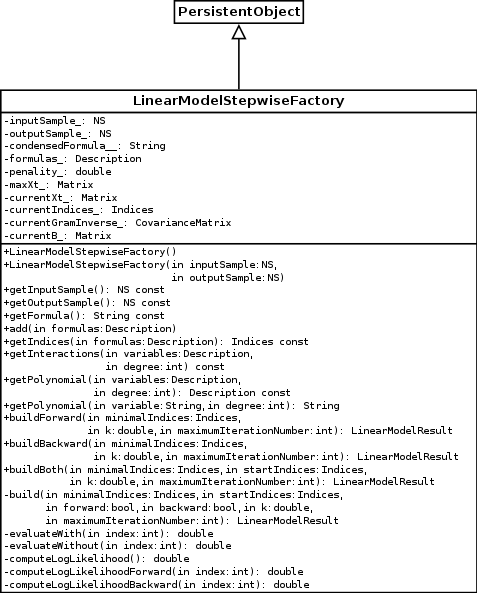
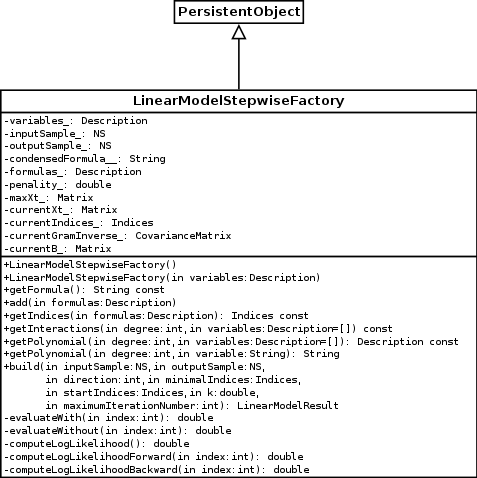
Describe API changes as discussed with Sofiane

Changed region(s): [[0.0, 0.1464, 1.0, 1.0], [0.3522, 0.0, 0.6457, 0.0879]]

diff --git a/EDF_linear_regression/STEPWISE_test/STEPWISE_test1.py b/EDF_linear_regression/STEPWISE_test/STEPWISE_test1.py
@@ -19,30 +19,30 @@ Y = myLinearModel(X) + R
 print(Y)
 
 # Build a model Y~(X1+X2+X3+X4)^3+I(Xi)^2+I(Xi)^3
-factory = ot.LinearModelStepwiseFactory(X, Y)
+factory = ot.LinearModelStepwiseFactory(X.getDescription())
 # (X1+X2+X3+X4)^3
-factory.add(factory.getInteractions(X.getDescription(), 3))
+factory.add(factory.getInteractions(3))
 
 # I(Xi)^2
-factory.add(factory.getPolynomial(X.getDescription(), 2))
+factory.add(factory.getPolynomial(2))
 
 # I(Xi)^3
-factory.add(factory.getPolynomial(X.getDescription(), 3))
+factory.add(factory.getPolynomial(3))
 
 i_min = factory.getIndices(["1"])
 i_0 = factory.getIndices(factory.getInteractions(X.getDescription(), 1))
 
 ## Forward
-lm_forward_AIC_result = factory.buildForward(i_min, 2)
-lm_forward_BIC_result = factory.buildForward(i_min, log(100))
+lm_forward_AIC_result = factory.build(X, Y, 1, i_min, [], 2)
+lm_forward_BIC_result = factory.build(X, Y, 1, i_min, [], log(100))
 
 ## Backward
-lm_backward_AIC_result = factory.buildBackward(i_min, 2)
-lm_backward_BIC_result = factory.buildBackward(i_min, log(100))
+lm_backward_AIC_result = factory.build(X, Y, 2, i_min, [], 2)
+lm_backward_BIC_result = factory.build(X, Y, 2, i_min, [], log(100))
 
 ## Both
-lm_both_AIC_result = factory.buildBoth(i_min, i_0, 2)
-lm_both_BIC_result = factory.buildBoth(i_min, i_0, log(100))
+lm_both_AIC_result = factory.build(X, Y, 3, i_min, i_0, 2)
+lm_both_BIC_result = factory.build(X, Y, 3, i_min, i_0, log(100))
 
 lm_forward_AIC_result.printANOVAtable()
 lm_forward_BIC_result.printANOVAtable()

diff --git a/EDF_linear_regression/STEPWISE_test/STEPWISE_test2.py b/EDF_linear_regression/STEPWISE_test/STEPWISE_test2.py
@@ -11,23 +11,23 @@ X = Sample[:, 1:4]
 Y = Sample[:, 0]
 
 # Build a model BIO~SAL+pH+K+Na+Zn
-factory = ot.LinearModelStepwiseFactory(X, Y)
-factory.add(factory.getInteractions(X.getDescription(), 1))
+factory = ot.LinearModelStepwiseFactory(X.getDescription())
+factory.add(factory.getInteractions(1))
 
 i_0 = factory.getIndices(["1"])
 i_min = i_0
 
 ## Forward
-lm_forward_AIC_result = factory.buildForward(i_min, 2)
-lm_forward_BIC_result = factory.buildForward(i_min, log(45))
+lm_forward_AIC_result = factory.build(X, Y, 1, i_min, [], 2)
+lm_forward_BIC_result = factory.build(X, Y, 1, i_min, [], log(45))
 
 ## Backward
-lm_backward_AIC_result = factory.buildBackward(i_min, 2)
-lm_backward_BIC_result = factory.buildBackward(i_min, log(45))
+lm_backward_AIC_result = factory.build(X, Y, 2, i_min, [], 2)
+lm_backward_BIC_result = factory.build(X, Y, 2, i_min, [], log(45))
 
 ## Both
-lm_both_AIC_result = factory.buildBoth(i_min, i_0, 2)
-lm_both_BIC_result = factory.buildBoth(i_min, i_0, log(45))
+lm_both_AIC_result = factory.build(X, Y, 3, i_min, i_0, 2)
+lm_both_BIC_result = factory.build(X, Y, 3, i_min, i_0, log(45))
 
 
 lm_forward_AIC_result.printANOVAtable()
